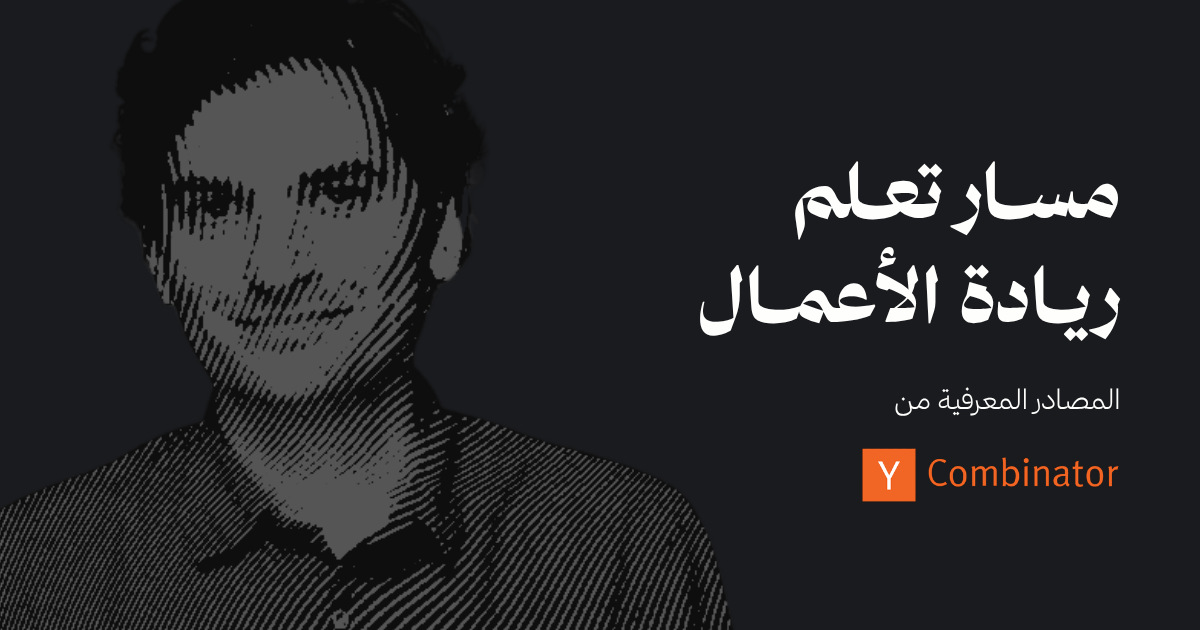
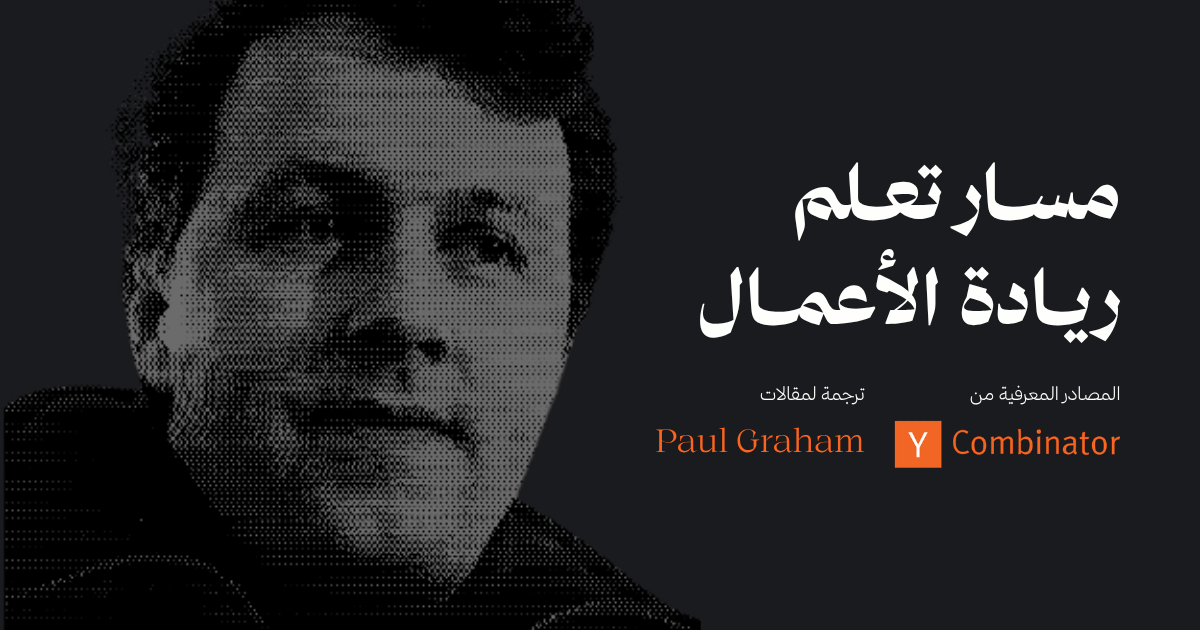
تقريب قسم خطة الدراسة من الواجهة في الجوال، وتحديث صورة المعاينة

diff --git a/src/components/Hero.jsx b/src/components/Hero.jsx
@@ -55,9 +55,9 @@ export default function Hero() {
   return (
     <section
       id="essays"
-      className="relative overflow-hidden grid grid-cols-1 min-[860px]:grid-cols-2 min-h-[calc(100vh-80px)] items-stretch border-b border-white/[0.06]"
+      className="relative overflow-hidden grid grid-cols-1 min-[860px]:grid-cols-2 min-h-[calc(100svh-240px)] min-[860px]:min-h-[calc(100vh-80px)] items-stretch border-b border-white/[0.06]"
     >
-      <div className="relative z-[1] flex flex-col justify-center gap-[clamp(18px,2.4vw,28px)] min-w-0 py-[clamp(24px,4vw,48px)] px-[clamp(16px,5vw,72px)]">
+      <div className="relative z-[1] flex flex-col justify-end min-[860px]:justify-center gap-[clamp(18px,2.4vw,28px)] min-w-0 pt-[clamp(24px,4vw,48px)] pb-8 min-[860px]:pb-[clamp(24px,4vw,48px)] px-[clamp(16px,5vw,72px)]">
         <h1
           className="m-0 font-serif font-bold text-[clamp(44px,6.4vw,80px)] leading-[1.15] tracking-normal flex flex-col"
           style={{ fontFeatureSettings: '"calt" 1, "liga" 1, "cswh" 1' }}
@@ -76,7 +76,9 @@ export default function Hero() {
         <SubscribeForm />
       </div>
 
-      {/* Portrait: beside the text on desktop, a faded backdrop on mobile */}
+      {/* Portrait: beside the text on desktop, a faded backdrop on mobile.
+          On mobile the hero is shorter than the screen (100svh - 240px) and the
+          text sits at its bottom, so the plan heading peeks above the fold. */}
       <div
         className="absolute inset-0 z-0 min-w-0 min-[860px]:relative min-[860px]:inset-auto min-[860px]:min-h-[min(80vh,640px)]"
         style={fade(1.4, 0.3)}

diff --git a/src/components/PlanSection.jsx b/src/components/PlanSection.jsx
@@ -217,7 +217,7 @@ export default function PlanSection({ checked, totalDone, onToggle, onReset }) {
   return (
     <section
       id="plan"
-      className="max-w-[1160px] mx-auto pt-[clamp(64px,9vw,128px)] px-[clamp(16px,4vw,40px)] pb-[clamp(64px,8vw,112px)] grid grid-cols-[minmax(0,1fr)] min-[1000px]:grid-cols-[minmax(0,1fr)_minmax(0,1.8fr)] gap-[clamp(40px,5vw,88px)] items-start"
+      className="max-w-[1160px] mx-auto pt-10 min-[860px]:pt-[clamp(64px,9vw,128px)] px-[clamp(16px,4vw,40px)] pb-[clamp(64px,8vw,112px)] grid grid-cols-[minmax(0,1fr)] min-[1000px]:grid-cols-[minmax(0,1fr)_minmax(0,1.8fr)] gap-[clamp(40px,5vw,88px)] items-start"
     >
       <aside className="static min-[1000px]:sticky top-8 flex flex-col gap-8 min-w-0">
         <div className="flex flex-col gap-4">
